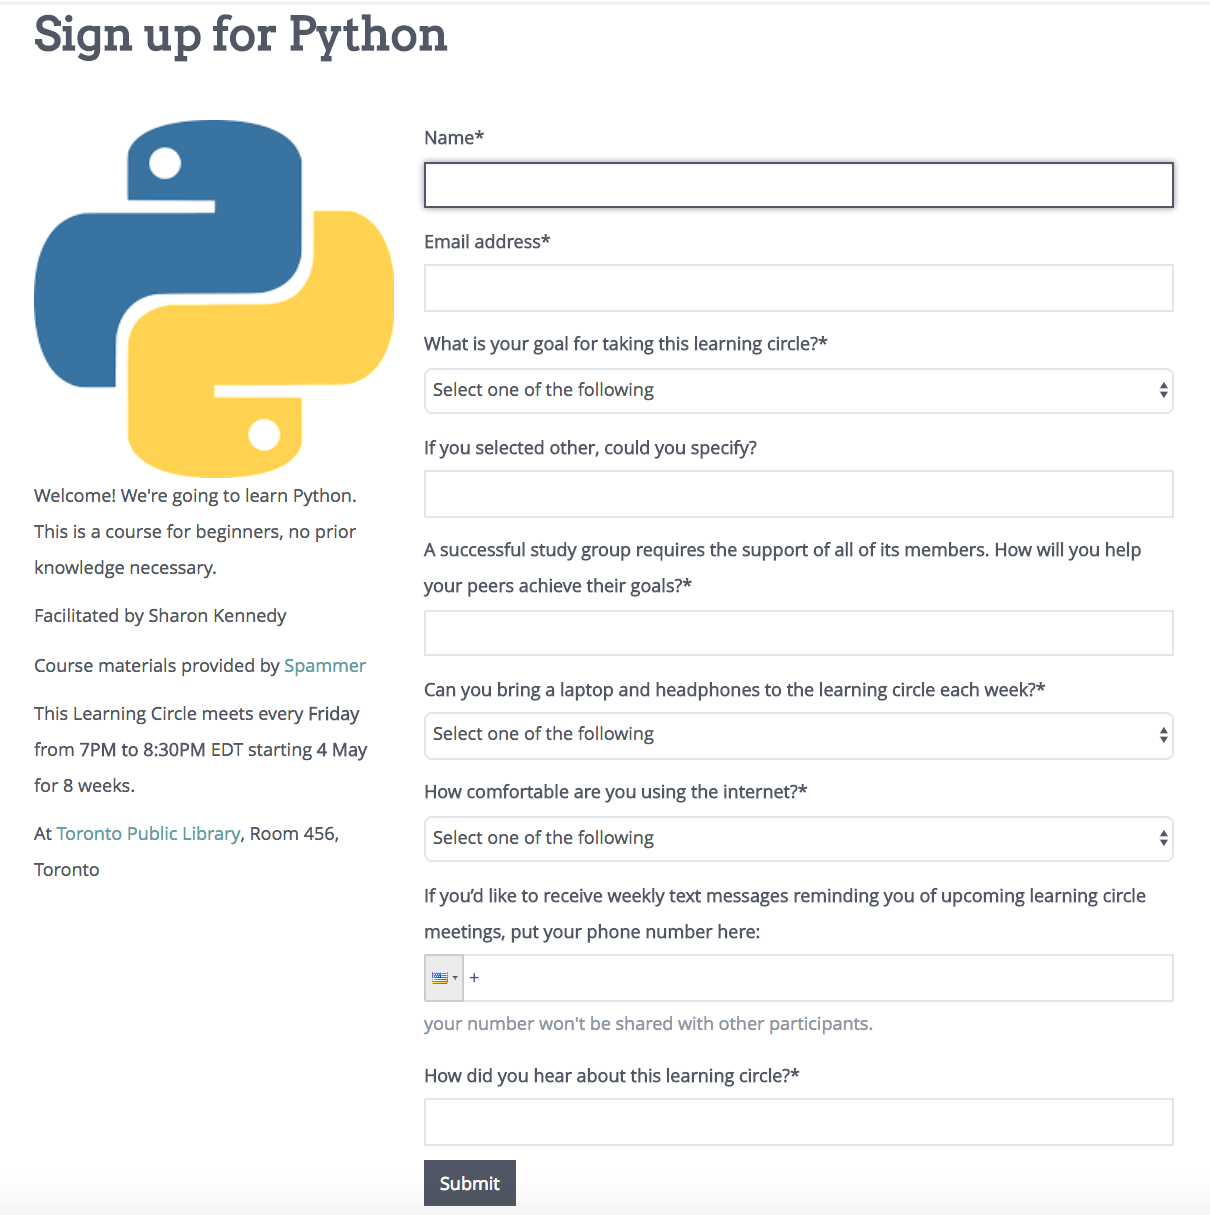
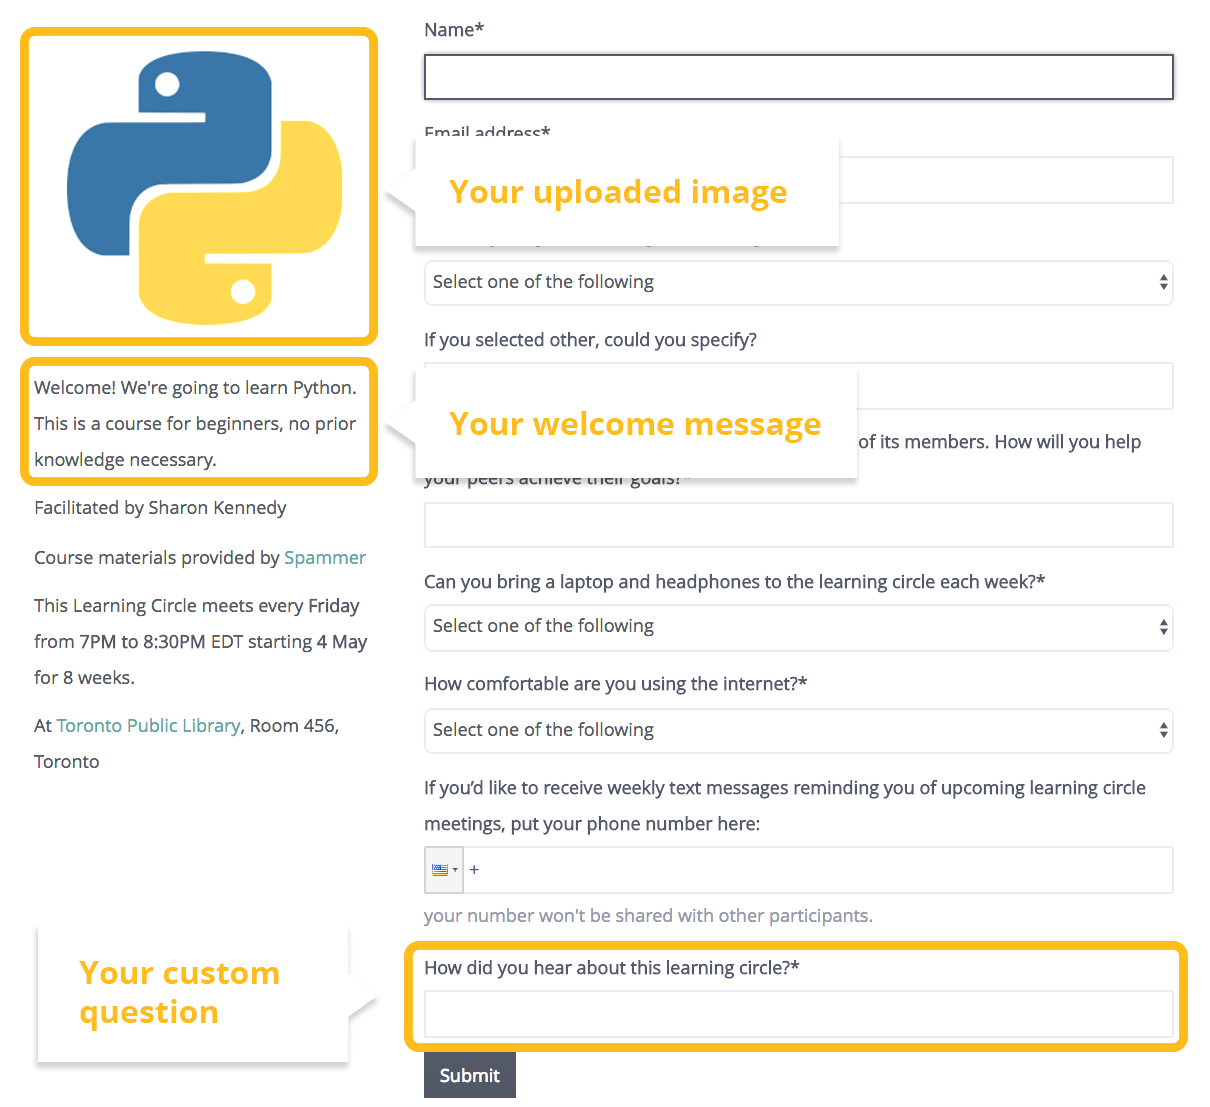
annotated screenshot for help text

diff --git a/frontend/components/learning_circle_form/HelpText.jsx b/frontend/components/learning_circle_form/HelpText.jsx
@@ -65,12 +65,11 @@ export const Step4 = () => (
     <h4>Add the finishing touches</h4>
     <div className='content'>
       <ul>
-        <li>This is what your registration page will look like: <br />
+        <li>In the welcome message, include something about yourself, why you’re facilitating this learning circle, or anything else you want people to know when they sign up.</li>
+        <li>Make your learning circle stand out by uploading a picture or a .gif. It could be related to the location, subject matter, or anything else you want to identify your learning circle with!</li>
+        <li>This is an example of how your custom content will be used on the sign up form: <br />
           <img src='/static/images/signup-form-screenshot.png' alt='Learning circle sign up form'/>
         </li>
-        <li>In the welcome message, include something about yourself, why you’re facilitating this learning circle, or anything else you want people to know when they sign up.</li>
-        <li>We’ll ask people for their contact information, goals for the learning circle, and whether they can bring their own laptop and headphones. If there is another question you want people to answer, you can include that. All of this information will be stored in your dashboard.</li>
-        <li>Finally, make your learning circle stand out by uploading a picture or a .gif. It could be related to the location, subject matter, or anything else you want to identify your learning circle with!</li>
       </ul>
     </div>
   </div>
